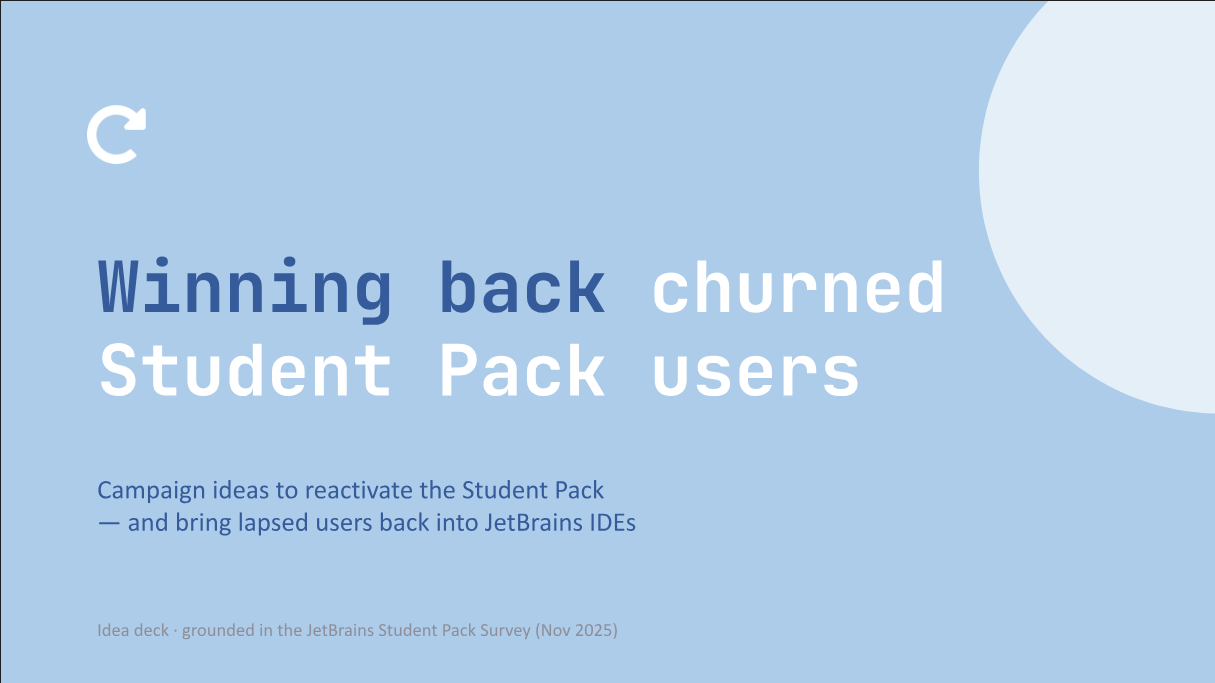
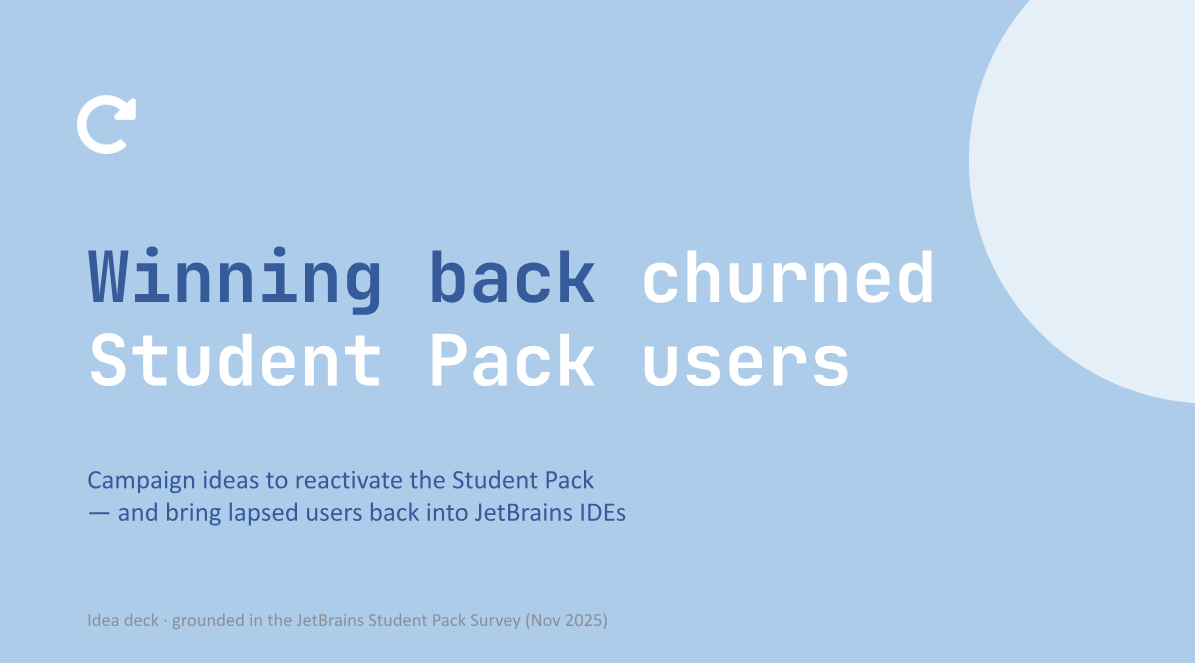
Recommendations: text placeholders + downloadable letter images
- Keep reference letter images, remove the PDFs; download the image on click
- Show only the English Yandex letter
- Revert recommendation cards to text-placeholder quotes (no image previews)
- Crop more black off the JetBrains slide previews
- Fix mismatched serif font in the About description (now consistent sans)

diff --git a/index.html b/index.html
@@ -328,66 +328,124 @@
 
     <!-- ===================== RECOMMENDATIONS ===================== -->
     <!--
-      RECOMMENDATIONS — real signed reference letters parsed from the portfolio.
-      Each card opens the letter PDF in assets/references/. To swap a letter, replace
-      the matching .jpg (on-page preview) and .pdf (download) using the same filename.
+      RECOMMENDATIONS — text placeholders; clicking "Download letter" downloads the
+      scanned letter image from assets/references/<name>.jpg. Quotes below are
+      PLACEHOLDER copy — replace each <blockquote> with a real excerpt when available.
     -->
     <section class="section recommendations" id="recommendations">
       <div class="container">
         <div class="section-head center reveal">
           <p class="kicker">Recommendations</p>
-          <h2>Letters from the teams I've worked with.</h2>
-          <p class="section-sub">Signed reference letters from past managers and collaborators. Click any letter to read or download the full PDF.</p>
+          <h2>Words from the teams I've worked with.</h2>
+          <p class="section-sub">Reference letters from past managers and collaborators — download any signed letter below.</p>
         </div>
 
         <div class="rec-grid">
-          <a class="rec-card reveal" href="assets/references/yandex-en.pdf" target="_blank" rel="noopener">
-            <div class="rec-doc"><img src="assets/references/yandex-en.jpg" alt="Yandex reference letter (English)" loading="lazy" /></div>
-            <div class="rec-foot">
-              <span class="rec-meta"><span class="rec-name">Yandex</span><span class="rec-role">Reference letter · EN</span></span>
-              <span class="rec-dl"><svg viewBox="0 0 24 24" fill="none" stroke="currentColor" stroke-width="2" stroke-linecap="round" stroke-linejoin="round" aria-hidden="true"><path d="M21 15v4a2 2 0 0 1-2 2H5a2 2 0 0 1-2-2v-4"/><polyline points="7 10 12 15 17 10"/><line x1="12" y1="15" x2="12" y2="3"/></svg> PDF</span>
-            </div>
-          </a>
+          <!-- Featured: Yandex -->
+          <figure class="rec-card featured reveal">
+            <div class="rec-quote-mark" aria-hidden="true">&ldquo;</div>
+            <blockquote class="rec-quote">
+              <!-- PLACEHOLDER: replace with a real excerpt from the Yandex letter -->
+              Margarita got up to speed on an unfamiliar product in days and turned dense,
+              technical material into messaging our users actually understood. Dependable,
+              sharp, and a genuine pleasure to work with.
+            </blockquote>
+            <figcaption class="rec-author">
+              <span class="rec-avatar" aria-hidden="true">Y</span>
+              <span class="rec-meta">
+                <span class="rec-name">Reference letter</span>
+                <span class="rec-role">Yandex</span>
+              </span>
+            </figcaption>
+            <a class="rec-download" href="assets/references/yandex.jpg" download>
+              <svg viewBox="0 0 24 24" fill="none" stroke="currentColor" stroke-width="2" stroke-linecap="round" stroke-linejoin="round" aria-hidden="true"><path d="M21 15v4a2 2 0 0 1-2 2H5a2 2 0 0 1-2-2v-4"/><polyline points="7 10 12 15 17 10"/><line x1="12" y1="15" x2="12" y2="3"/></svg>
+              Download letter
+            </a>
+          </figure>
 
-          <a class="rec-card reveal" href="assets/references/yandex-ru.pdf" target="_blank" rel="noopener">
-            <div class="rec-doc"><img src="assets/references/yandex-ru.jpg" alt="Yandex reference letter (original letterhead)" loading="lazy" /></div>
-            <div class="rec-foot">
-              <span class="rec-meta"><span class="rec-name">Yandex</span><span class="rec-role">Original letterhead</span></span>
-              <span class="rec-dl"><svg viewBox="0 0 24 24" fill="none" stroke="currentColor" stroke-width="2" stroke-linecap="round" stroke-linejoin="round" aria-hidden="true"><path d="M21 15v4a2 2 0 0 1-2 2H5a2 2 0 0 1-2-2v-4"/><polyline points="7 10 12 15 17 10"/><line x1="12" y1="15" x2="12" y2="3"/></svg> PDF</span>
-            </div>
-          </a>
+          <!-- FindGuide -->
+          <figure class="rec-card reveal">
+            <div class="rec-quote-mark" aria-hidden="true">&ldquo;</div>
+            <blockquote class="rec-quote">
+              <!-- PLACEHOLDER: replace with a real excerpt from the FindGuide letter -->
+              She owned our promo and onboarding content end to end — script, story and
+              production — and made the whole service easy to explain.
+            </blockquote>
+            <figcaption class="rec-author">
+              <span class="rec-avatar" aria-hidden="true">F</span>
+              <span class="rec-meta">
+                <span class="rec-name">Reference letter</span>
+                <span class="rec-role">FindGuide</span>
+              </span>
+            </figcaption>
+            <a class="rec-download" href="assets/references/findguide.jpg" download>
+              <svg viewBox="0 0 24 24" fill="none" stroke="currentColor" stroke-width="2" stroke-linecap="round" stroke-linejoin="round" aria-hidden="true"><path d="M21 15v4a2 2 0 0 1-2 2H5a2 2 0 0 1-2-2v-4"/><polyline points="7 10 12 15 17 10"/><line x1="12" y1="15" x2="12" y2="3"/></svg>
+              Download letter
+            </a>
+          </figure>
 
-          <a class="rec-card reveal" href="assets/references/findguide.pdf" target="_blank" rel="noopener">
-            <div class="rec-doc"><img src="assets/references/findguide.jpg" alt="FindGuide reference letter" loading="lazy" /></div>
-            <div class="rec-foot">
-              <span class="rec-meta"><span class="rec-name">FindGuide</span><span class="rec-role">Reference letter</span></span>
-              <span class="rec-dl"><svg viewBox="0 0 24 24" fill="none" stroke="currentColor" stroke-width="2" stroke-linecap="round" stroke-linejoin="round" aria-hidden="true"><path d="M21 15v4a2 2 0 0 1-2 2H5a2 2 0 0 1-2-2v-4"/><polyline points="7 10 12 15 17 10"/><line x1="12" y1="15" x2="12" y2="3"/></svg> PDF</span>
-            </div>
-          </a>
+          <!-- Fontanka.ru -->
+          <figure class="rec-card reveal">
+            <div class="rec-quote-mark" aria-hidden="true">&ldquo;</div>
+            <blockquote class="rec-quote">
+              <!-- PLACEHOLDER: replace with a real excerpt from the Fontanka.ru letter -->
+              A reliable writer with a real editorial instinct — she finds the story that
+              matters and delivers clean, publishable copy on time.
+            </blockquote>
+            <figcaption class="rec-author">
+              <span class="rec-avatar" aria-hidden="true">F</span>
+              <span class="rec-meta">
+                <span class="rec-name">Reference letter</span>
+                <span class="rec-role">Fontanka.ru</span>
+              </span>
+            </figcaption>
+            <a class="rec-download" href="assets/references/fontanka.jpg" download>
+              <svg viewBox="0 0 24 24" fill="none" stroke="currentColor" stroke-width="2" stroke-linecap="round" stroke-linejoin="round" aria-hidden="true"><path d="M21 15v4a2 2 0 0 1-2 2H5a2 2 0 0 1-2-2v-4"/><polyline points="7 10 12 15 17 10"/><line x1="12" y1="15" x2="12" y2="3"/></svg>
+              Download letter
+            </a>
+          </figure>
 
-          <a class="rec-card reveal" href="assets/references/fontanka.pdf" target="_blank" rel="noopener">
-            <div class="rec-doc"><img src="assets/references/fontanka.jpg" alt="Fontanka.ru reference letter" loading="lazy" /></div>
-            <div class="rec-foot">
-              <span class="rec-meta"><span class="rec-name">Fontanka.ru</span><span class="rec-role">Reference letter</span></span>
-              <span class="rec-dl"><svg viewBox="0 0 24 24" fill="none" stroke="currentColor" stroke-width="2" stroke-linecap="round" stroke-linejoin="round" aria-hidden="true"><path d="M21 15v4a2 2 0 0 1-2 2H5a2 2 0 0 1-2-2v-4"/><polyline points="7 10 12 15 17 10"/><line x1="12" y1="15" x2="12" y2="3"/></svg> PDF</span>
-            </div>
-          </a>
+          <!-- Academic faculty -->
+          <figure class="rec-card reveal">
+            <div class="rec-quote-mark" aria-hidden="true">&ldquo;</div>
+            <blockquote class="rec-quote">
+              <!-- PLACEHOLDER: replace with a real excerpt from the academic letter -->
+              Curious, fast-learning and conscientious — she approaches every brief with
+              structure and follows through to a polished result.
+            </blockquote>
+            <figcaption class="rec-author">
+              <span class="rec-avatar" aria-hidden="true">A</span>
+              <span class="rec-meta">
+                <span class="rec-name">Reference letter</span>
+                <span class="rec-role">Academic faculty</span>
+              </span>
+            </figcaption>
+            <a class="rec-download" href="assets/references/academic.jpg" download>
+              <svg viewBox="0 0 24 24" fill="none" stroke="currentColor" stroke-width="2" stroke-linecap="round" stroke-linejoin="round" aria-hidden="true"><path d="M21 15v4a2 2 0 0 1-2 2H5a2 2 0 0 1-2-2v-4"/><polyline points="7 10 12 15 17 10"/><line x1="12" y1="15" x2="12" y2="3"/></svg>
+              Download letter
+            </a>
+          </figure>
 
-          <a class="rec-card reveal" href="assets/references/academic.pdf" target="_blank" rel="noopener">
-            <div class="rec-doc"><img src="assets/references/academic.jpg" alt="Academic reference letter" loading="lazy" /></div>
-            <div class="rec-foot">
-              <span class="rec-meta"><span class="rec-name">Academic faculty</span><span class="rec-role">Reference letter</span></span>
-              <span class="rec-dl"><svg viewBox="0 0 24 24" fill="none" stroke="currentColor" stroke-width="2" stroke-linecap="round" stroke-linejoin="round" aria-hidden="true"><path d="M21 15v4a2 2 0 0 1-2 2H5a2 2 0 0 1-2-2v-4"/><polyline points="7 10 12 15 17 10"/><line x1="12" y1="15" x2="12" y2="3"/></svg> PDF</span>
-            </div>
-          </a>
-
-          <a class="rec-card reveal" href="assets/references/copywriting.pdf" target="_blank" rel="noopener">
-            <div class="rec-doc"><img src="assets/references/copywriting.jpg" alt="Copywriter reference letter" loading="lazy" /></div>
-            <div class="rec-foot">
-              <span class="rec-meta"><span class="rec-name">Copywriting lead</span><span class="rec-role">Reference letter</span></span>
-              <span class="rec-dl"><svg viewBox="0 0 24 24" fill="none" stroke="currentColor" stroke-width="2" stroke-linecap="round" stroke-linejoin="round" aria-hidden="true"><path d="M21 15v4a2 2 0 0 1-2 2H5a2 2 0 0 1-2-2v-4"/><polyline points="7 10 12 15 17 10"/><line x1="12" y1="15" x2="12" y2="3"/></svg> PDF</span>
-            </div>
-          </a>
+          <!-- Copywriting lead -->
+          <figure class="rec-card reveal">
+            <div class="rec-quote-mark" aria-hidden="true">&ldquo;</div>
+            <blockquote class="rec-quote">
+              <!-- PLACEHOLDER: replace with a real excerpt from the copywriting lead's letter -->
+              One of those rare people who pairs analytical thinking with genuine craft —
+              her copy is clear, considered and always on brief.
+            </blockquote>
+            <figcaption class="rec-author">
+              <span class="rec-avatar" aria-hidden="true">C</span>
+              <span class="rec-meta">
+                <span class="rec-name">Reference letter</span>
+                <span class="rec-role">Copywriting lead</span>
+              </span>
+            </figcaption>
+            <a class="rec-download" href="assets/references/copywriting.jpg" download>
+              <svg viewBox="0 0 24 24" fill="none" stroke="currentColor" stroke-width="2" stroke-linecap="round" stroke-linejoin="round" aria-hidden="true"><path d="M21 15v4a2 2 0 0 1-2 2H5a2 2 0 0 1-2-2v-4"/><polyline points="7 10 12 15 17 10"/><line x1="12" y1="15" x2="12" y2="3"/></svg>
+              Download letter
+            </a>
+          </figure>
         </div>
       </div>
     </section>

diff --git a/styles.css b/styles.css
@@ -482,12 +482,11 @@ p { margin: 0 0 1rem; }
 }
 .about-body p { font-size: 1.12rem; color: var(--ink-soft); }
 .about-lead {
-  font-family: var(--font-display);
-  font-size: 1.5rem;
-  font-weight: 400;
-  line-height: 1.45;
+  font-size: 1.22rem;
+  font-weight: 500;
+  line-height: 1.55;
   color: var(--ink) !important;
-  margin-bottom: 18px;
+  margin-bottom: 16px;
 }
 .about-traits {
   list-style: none;
@@ -664,79 +663,95 @@ p { margin: 0 0 1rem; }
 .work-link .arrow { transition: transform 0.25s var(--ease); }
 .work-card:hover .work-link .arrow { transform: translateX(5px); }
 
-/* ---------- Recommendations (signed letters gallery) ---------- */
+/* ---------- Recommendations ---------- */
 .recommendations { background: var(--bg-yellow); }
 .rec-grid {
   display: grid;
   grid-template-columns: repeat(3, 1fr);
   gap: 24px;
 }
+.rec-grid .rec-card.featured { grid-column: 1 / -1; }
 .rec-card {
+  position: relative;
   display: flex;
   flex-direction: column;
   background: var(--surface);
   border: 1px solid var(--line);
   border-radius: var(--radius);
+  padding: 34px 30px 26px;
   overflow: hidden;
   transition: transform 0.3s var(--ease), box-shadow 0.3s var(--ease), border-color 0.3s var(--ease);
 }
+.rec-card::before {
+  content: "";
+  position: absolute;
+  left: 0;
+  top: 0;
+  bottom: 0;
+  width: 5px;
+  background: var(--yellow);
+}
+.rec-card:nth-child(even)::before { background: var(--blue); }
 .rec-card:hover {
   transform: translateY(-6px);
   box-shadow: var(--shadow);
   border-color: transparent;
 }
-/* Document preview — shows the top of each scanned letter */
-.rec-doc {
-  position: relative;
-  aspect-ratio: 7 / 5;
-  overflow: hidden;
-  background: #f2f0eb;
-  border-bottom: 1px solid var(--line);
+.rec-quote-mark {
+  font-family: var(--font-display);
+  font-size: 4rem;
+  line-height: 0.7;
+  color: var(--blue);
+  margin-bottom: 6px;
+  user-select: none;
 }
-.rec-doc img {
-  width: 100%;
-  height: 100%;
-  object-fit: cover;
-  object-position: top center;
-  transition: transform 0.55s var(--ease);
+.rec-card:nth-child(even) .rec-quote-mark { color: var(--yellow); filter: brightness(0.92); }
+.rec-quote {
+  margin: 0 0 24px;
+  font-family: var(--font-display);
+  font-size: 1.18rem;
+  font-weight: 400;
+  line-height: 1.5;
+  color: var(--ink);
+  flex-grow: 1;
 }
-.rec-card:hover .rec-doc img { transform: scale(1.04); }
-.rec-doc::after {
-  content: "";
-  position: absolute;
-  left: 0;
-  right: 0;
-  bottom: 0;
-  height: 40%;
-  background: linear-gradient(to bottom, rgba(255, 255, 255, 0), rgba(255, 255, 255, 0.85));
-  pointer-events: none;
-}
-.rec-foot {
+.featured .rec-quote { font-size: 1.5rem; max-width: 46ch; }
+.rec-author {
   display: flex;
   align-items: center;
-  justify-content: space-between;
-  gap: 12px;
-  padding: 18px 20px;
+  gap: 14px;
+  padding-top: 20px;
+  border-top: 1px solid var(--line);
 }
-.rec-meta { display: flex; flex-direction: column; line-height: 1.32; }
-.rec-name { font-weight: 600; color: var(--ink); font-size: 1.04rem; }
-.rec-role { font-size: 0.82rem; color: var(--muted); }
-.rec-dl {
+.rec-avatar {
+  display: grid;
+  place-items: center;
+  width: 46px;
+  height: 46px;
+  flex-shrink: 0;
+  border-radius: 50%;
+  background: var(--bg-blue);
+  color: var(--ink);
+  font-family: var(--font-display);
+  font-weight: 600;
+  font-size: 1.15rem;
+}
+.rec-meta { display: flex; flex-direction: column; line-height: 1.3; }
+.rec-name { font-weight: 600; color: var(--ink); }
+.rec-role { font-size: 0.9rem; color: var(--muted); }
+.rec-download {
   display: inline-flex;
   align-items: center;
-  gap: 7px;
-  flex-shrink: 0;
-  font-size: 0.8rem;
+  gap: 9px;
+  margin-top: 20px;
+  font-size: 0.92rem;
   font-weight: 600;
   color: var(--blue-deep);
-  padding: 7px 13px;
-  border: 1px solid var(--line-strong);
-  border-radius: 999px;
-  white-space: nowrap;
-  transition: background 0.25s var(--ease), color 0.25s var(--ease), border-color 0.25s var(--ease);
+  align-self: flex-start;
+  transition: gap 0.25s var(--ease), color 0.25s var(--ease);
 }
-.rec-dl svg { width: 13px; height: 13px; }
-.rec-card:hover .rec-dl { background: var(--ink); color: #fff; border-color: var(--ink); }
+.rec-download svg { width: 17px; height: 17px; }
+.rec-download:hover { gap: 13px; color: var(--ink); }
 
 /* ---------- Contact ---------- */
 .contact { padding-bottom: clamp(80px, 10vw, 130px); }

diff --git a/assets/references/README.md b/assets/references/README.md
@@ -1,24 +1,20 @@
 # Reference letters
 
-These are the **real signed reference letters**, parsed from the
+The **real signed reference letter images**, parsed from the
 [Recommendations page](https://sites.google.com/view/margaritaaleeva/projects-recommendations)
-of the portfolio. They power the **Recommendations** section on the landing page.
+of the portfolio.
 
-Each reference has two files:
+The landing page does **not** show these as previews — the Recommendations cards use
+text placeholders, and each card's **Download letter** button downloads the matching
+image below (the `download` attribute saves it on click).
 
-- `<name>.jpg` — the on-page document preview (shown in the card)
-- `<name>.pdf` — the downloadable letter (opens when the card is clicked)
-
-| Files | Reference from |
+| File | Reference from |
 | --- | --- |
-| `yandex-en.*` | Yandex — English version |
-| `yandex-ru.*` | Yandex — original letterhead |
-| `findguide.*` | FindGuide |
-| `fontanka.*` | Fontanka.ru |
-| `academic.*` | Academic faculty |
-| `copywriting.*` | Copywriting lead |
+| `yandex.jpg` | Yandex (English) |
+| `findguide.jpg` | FindGuide |
+| `fontanka.jpg` | Fontanka.ru |
+| `academic.jpg` | Academic faculty |
+| `copywriting.jpg` | Copywriting lead |
 
-The images were captured from the live site, so they are medium-resolution. To
-upgrade, drop in a higher-resolution scan/PDF using the **same filename** — no code
-change needed. To add or remove a letter, edit the cards in the Recommendations
-section of `index.html`.
+The images are medium-resolution (captured from the live site). To upgrade, drop in a
+higher-resolution scan using the **same filename** — no code change needed.